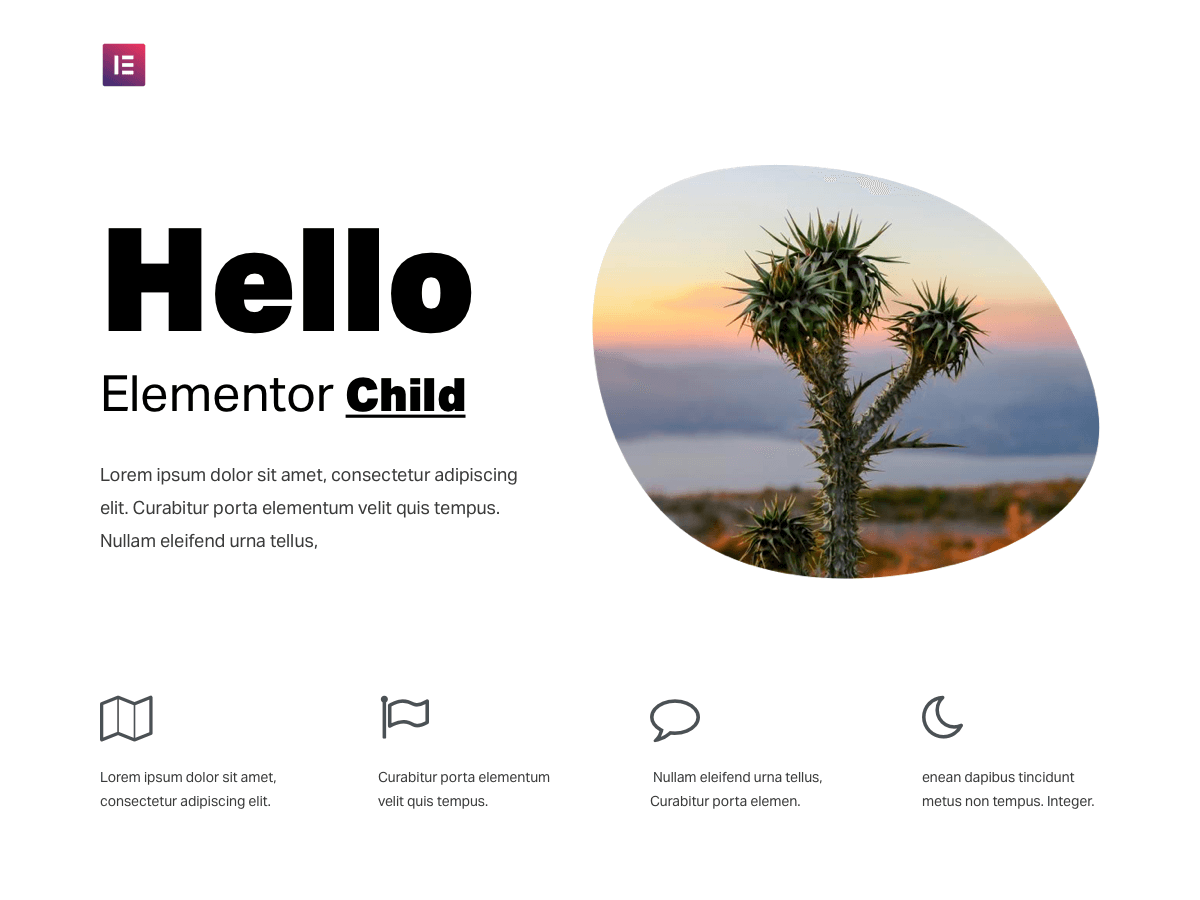
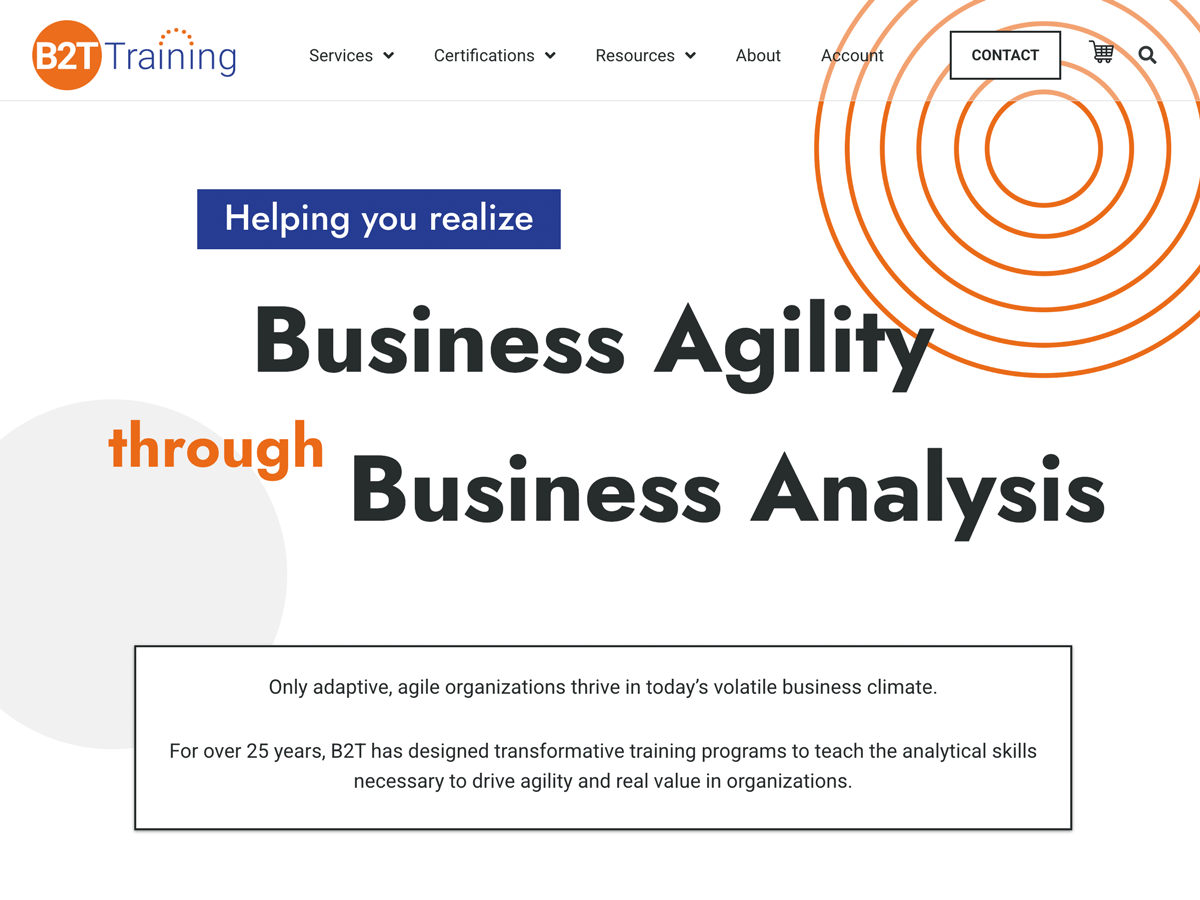
Updating theme screenshot

diff --git a/style.css b/style.css
@@ -1,11 +1,11 @@
 /* 
-Theme Name: Hello Elementor Child
+Theme Name: B2T Hello Elementor Child
 Theme URI: https://github.com/elementor/hello-theme-child/
 Description: Hello Elementor Child is a child theme of Hello Elementor, created by Elementor team
 Author: Elementor Team
 Author URI: https://elementor.com/
 Template: hello-elementor
-Version: 2.0.0
+Version: 2.0.2
 Text Domain: hello-elementor-child
 License: GNU General Public License v3 or later.
 License URI: https://www.gnu.org/licenses/gpl-3.0.html